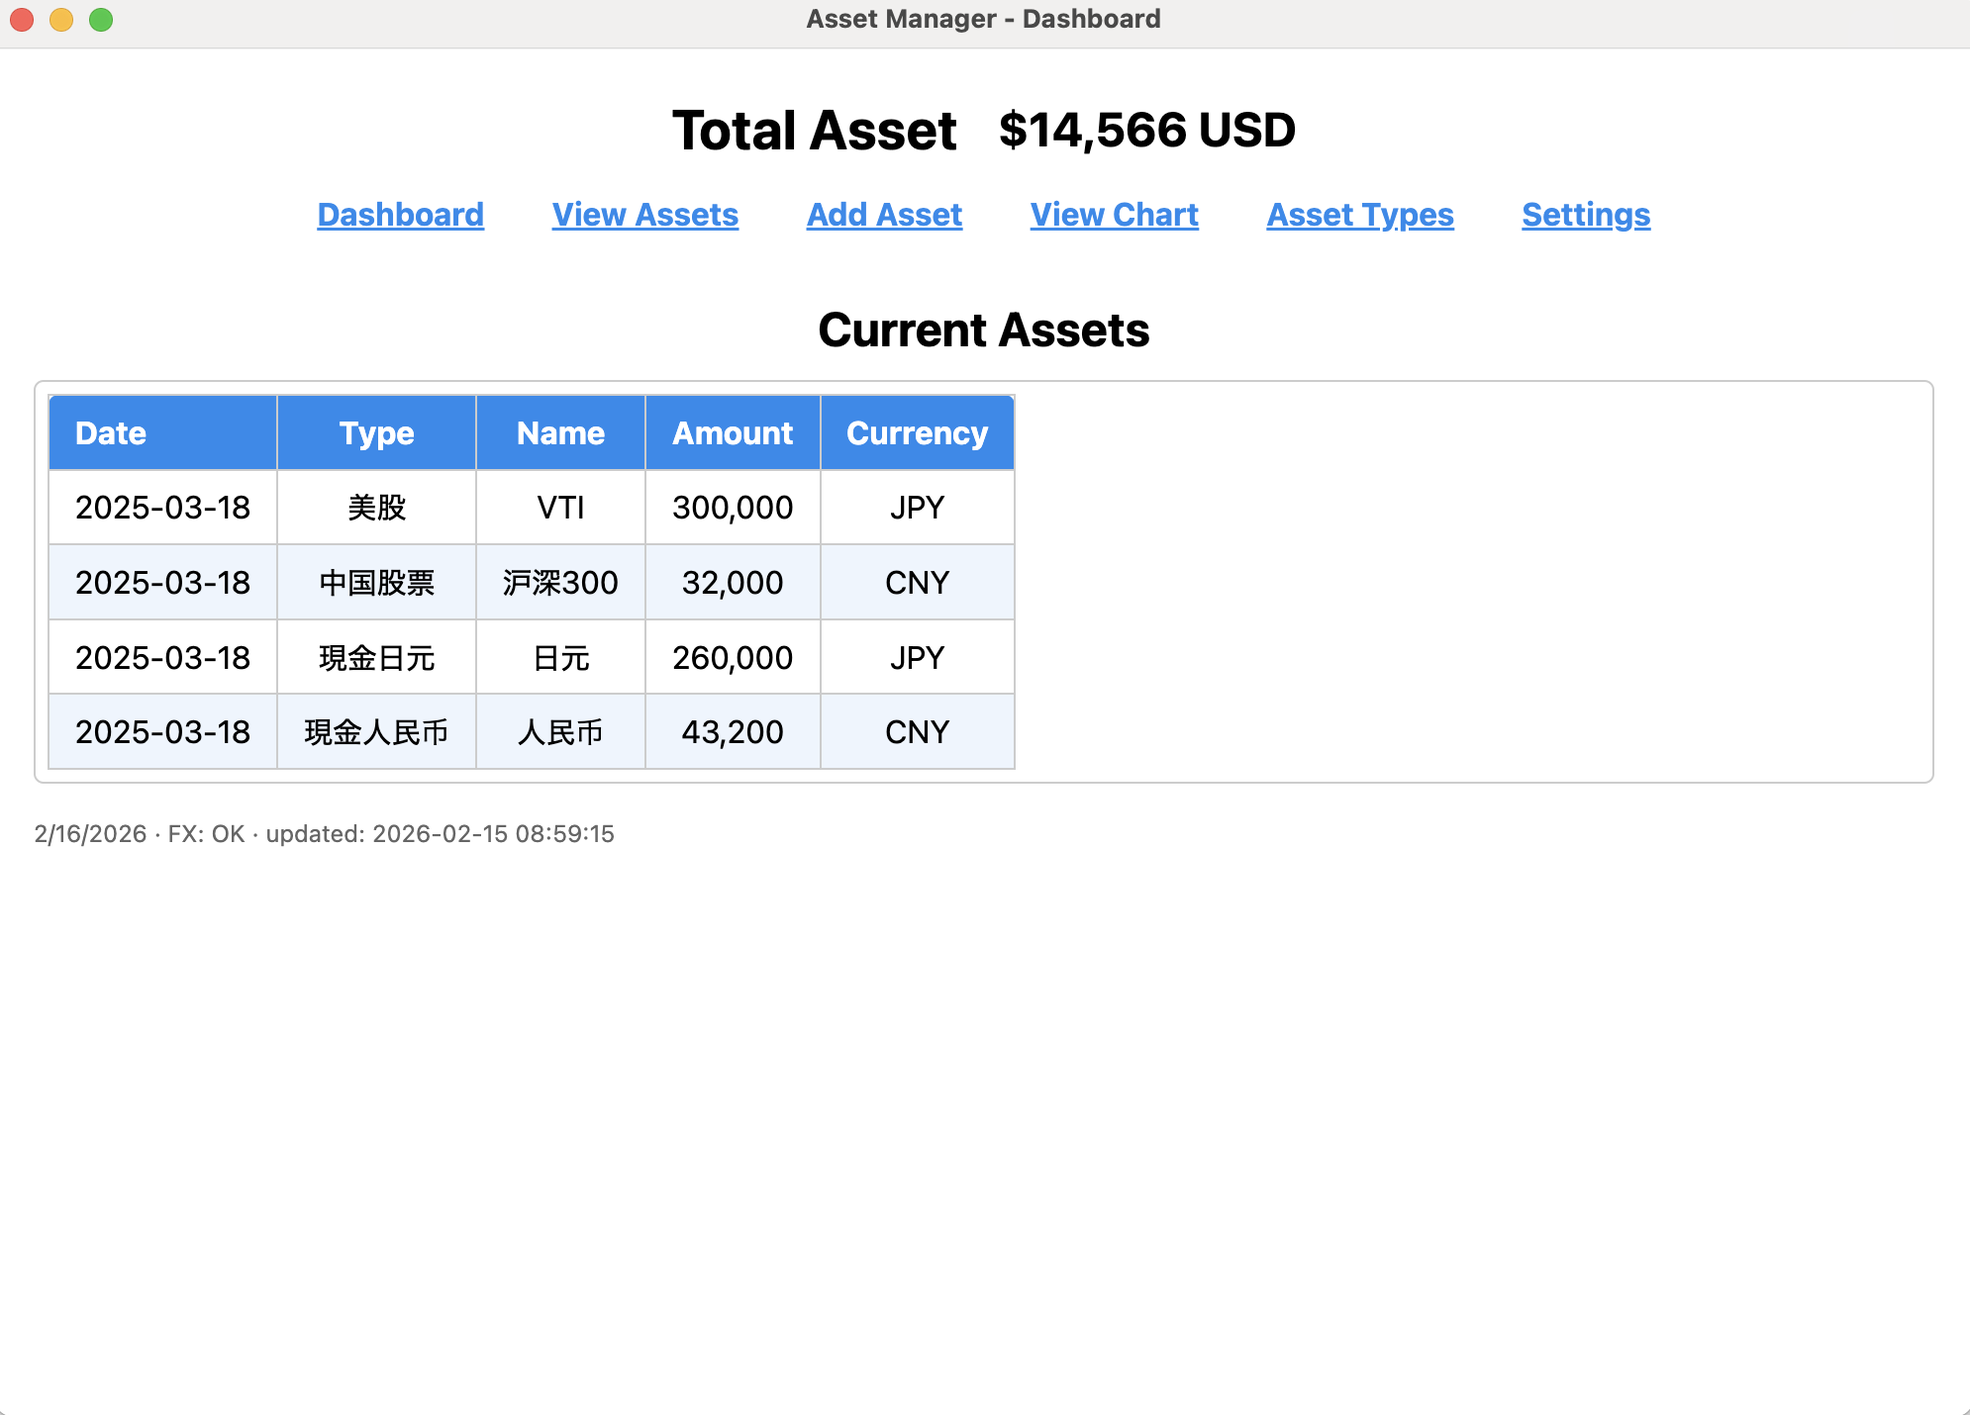
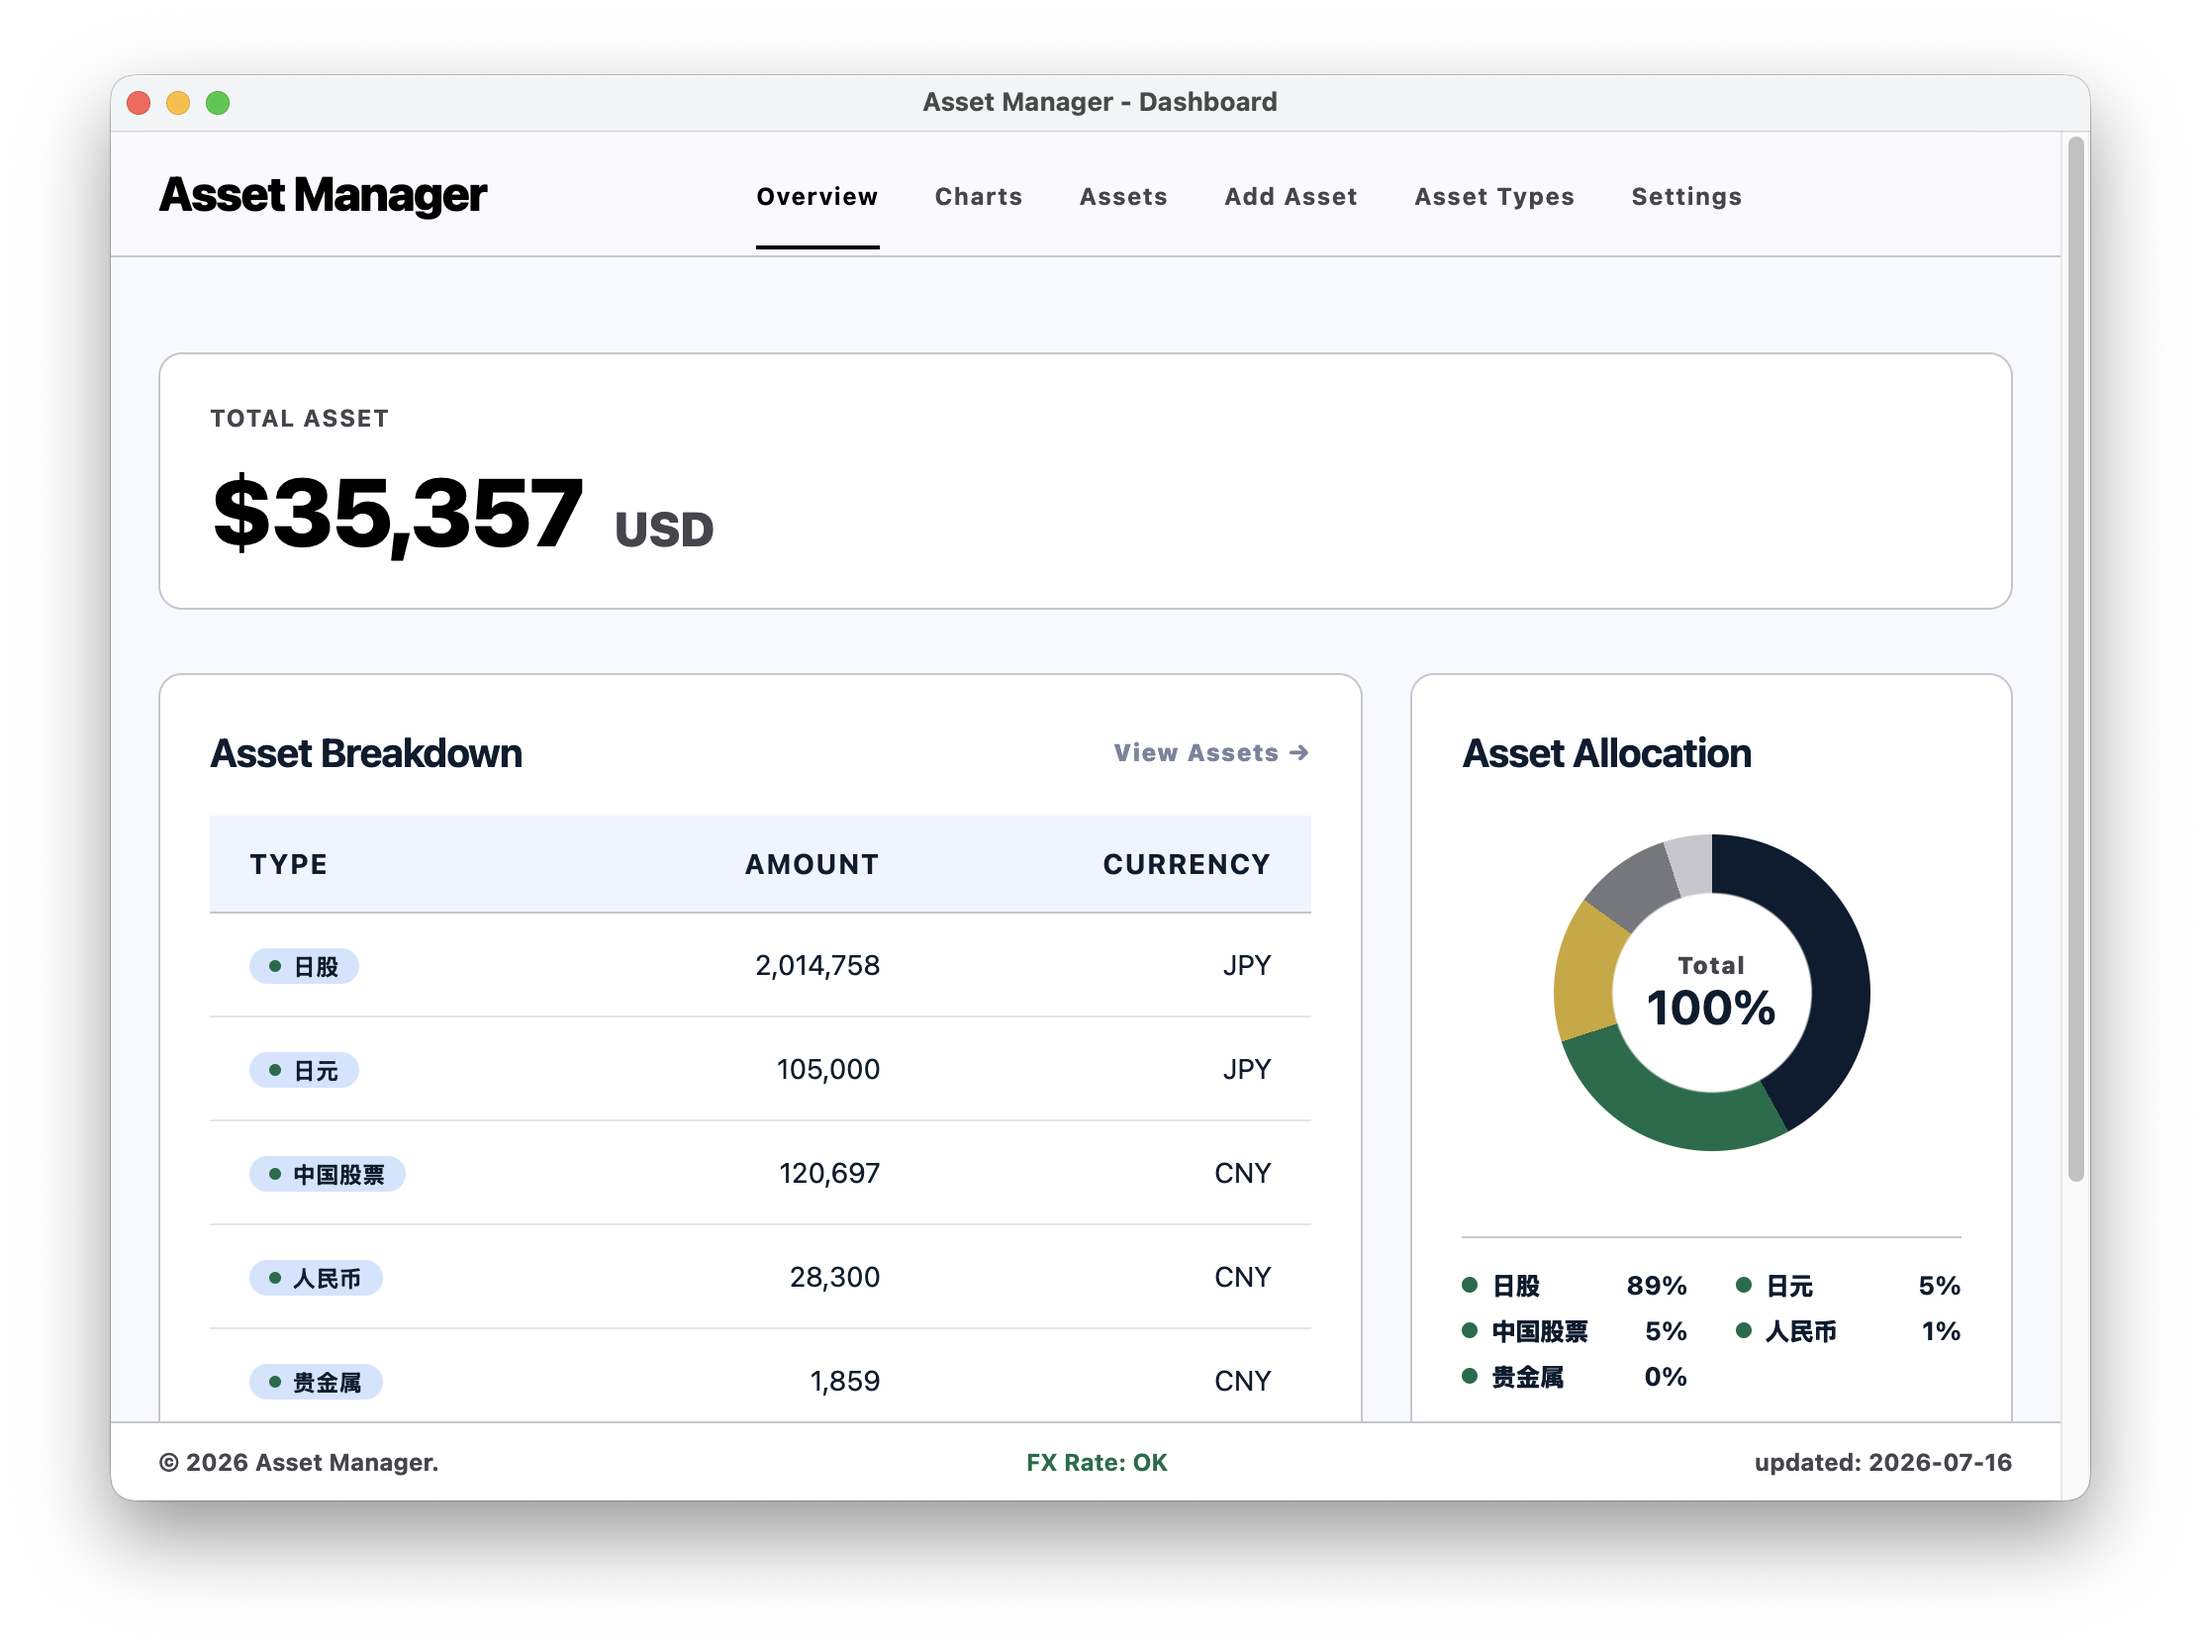
fix readme

diff --git a/README.ja.md b/README.ja.md
@@ -3,24 +3,54 @@
 ![sample1](docs/img/sample1.png)
 ![sample2](docs/img/sample2.png)
 
-# Assets App
+# Asset Manager
 
-Electron + SQLite（`sql.js`）+ React で構築した、ローカル実行型の個人資産管理デスクトップアプリです。
+Electron + SQLite（`sql.js`）+ React で構築した、ローカル実行型の個人資産管理デスクトップアプリです。定期的な資産スナップショット管理を想定しており、日付ごとの資産構成を記録し、表示通貨へ換算した合計資産を Dashboard と Chart で確認できます。
 
 ## 主な機能
 
-- 資産レコード管理（追加・編集・削除・複製）
-- 資産タイプ管理（追加・編集・削除、参照保護あり）
-- ダッシュボードで最新日付の資産と合計金額を表示
-- 日付単位で集計した資産の棒グラフ表示（Canvas）
-- CNY -> JPY の為替換算表示（設定可能）
+- Dashboard で最新日付の資産スナップショットと総資産を表示。
+- 表示通貨で総資産を計算。`JPY`、`CNY`、`USD` に対応。
+- 手動為替レートを管理し、Dashboard / Chart の換算に使用。
+- 資産レコード管理：追加、編集、削除、複製。
+- 資産タイプ管理：追加、編集、削除、`Region` フィールド対応。
+- `Add New Rebalance`：最新の資産スナップショットから資産タイプと通貨をコピーし、新しい日付の最新金額を入力。
+- 日付単位で集計した資産の棒グラフ表示（Canvas）。
+- Settings で言語、表示通貨、FX キャッシュ日数、手動為替レート、ローカルインポート / エクスポートを管理。
+- ローカル `.db` インポート時にデータベースを検証。旧バージョンのエクスポート DB は migration により最新 schema へ互換化。
+- 多言語 UI：中国語、English、日本語。
+
+## データと互換性
+
+- データはローカル SQLite データベースに保存されます。
+- 開発環境のデフォルト DB パス：`data/assets.db`。
+- パッケージ版 macOS アプリでは Electron の `userData` ディレクトリ内の `assets.db` を使用します。
+- migration は `main/migrations/` にあります。
+- 旧 `assets.name` カラムは互換性のため残していますが、UI では Asset Name を表示・編集しません。
+- `asset_types.region` は新しいフィールドで、旧 DB インポート時に migration で追加されます。
 
 ## 技術スタック
 
 - Electron 26
 - SQLite（`sql.js` 経由）
 - React 18（ローカル静的ランタイム）
-- Vanilla CSS（MVP.css）
+- Canvas chart
+- Vanilla CSS（`renderer/styles/` に分割）
+
+## プロジェクト構成
+
+```text
+main/                    Electron メインプロセス、DB、サービスロジック
+main/migrations/          SQLite migration SQL
+preload.js                Renderer に公開する安全な API
+renderer/*.html           各ページの HTML シェル
+renderer/app-react.js     軽量 React 起動エントリ
+renderer/src/             Renderer React モジュール
+renderer/src/pages/       Dashboard / Assets / Settings などのページコンポーネント
+renderer/src/components/  App shell、ナビゲーション、フッターなどの共有コンポーネント
+renderer/styles/          tokens / reset / base / layout / components / pages スタイル
+openspec/changes/         機能・リファクタリング仕様
+```
 
 ## ローカル実行
 
@@ -34,6 +64,18 @@ npm install
 
 ```bash
 npm start
+```
+
+## パッケージ作成
+
+```bash
+npm run pack
+```
+
+配布用インストーラーを生成：
+
+```bash
+npm run dist
 ```
 
 ## macOS DMG インストール時の注意

diff --git a/README.en.md b/README.en.md
@@ -1,26 +1,56 @@
-# Assets App
+# Asset Manager
 
 [中文](README.md) | [English](README.en.md) | [日本語](README.ja.md)
 
 ![sample1](docs/img/sample1.png)
 ![sample2](docs/img/sample2.png)
 
-A local desktop personal asset management app built with Electron + SQLite (`sql.js`) + React.
+A local desktop personal asset management app built with Electron + SQLite (`sql.js`) + React. The app is designed around periodic asset snapshots: record portfolio values on different dates, convert totals into a display currency, and track changes through the Dashboard and Chart pages.
 
 ## Features
 
-- Asset record management (create, edit, delete, duplicate)
-- Asset type management (create, edit, delete, with usage protection)
-- Dashboard with latest-date assets and total amount
-- Date-aggregated asset bar chart (Canvas)
-- CNY -> JPY conversion for display (configurable)
+- Dashboard showing the latest-date asset snapshot and total asset value.
+- Total asset calculation in the configured display currency, supporting `JPY`, `CNY`, and `USD`.
+- Manual FX rate management used by Dashboard and Chart calculations.
+- Asset record management: create, edit, delete, and duplicate.
+- Asset type management: create, edit, delete, with a `Region` field.
+- `Add New Rebalance`: copy the latest asset snapshot, keep asset types and currencies, and enter updated amounts for a new date.
+- Date-aggregated asset bar chart rendered with Canvas.
+- Settings for language, display currency, FX cache days, manual FX rates, local import, and local export.
+- Local `.db` import validates database structure; older exported databases are migrated to the latest schema.
+- Multilingual UI: Chinese, English, and Japanese.
+
+## Data and Compatibility
+
+- Data is stored in a local SQLite database.
+- Development database path: `data/assets.db`.
+- Packaged macOS apps use Electron's `userData` directory for `assets.db`.
+- Database migrations live in `main/migrations/`.
+- The legacy `assets.name` column is retained for compatibility, but Asset Name is no longer shown or edited in the UI.
+- `asset_types.region` is a newer field and is added through migration when older databases are imported.
 
 ## Tech Stack
 
 - Electron 26
-- SQLite (via `sql.js`)
-- React 18 (local static runtime files)
-- Vanilla CSS (MVP.css)
+- SQLite via `sql.js`
+- React 18 with local static runtime files
+- Canvas chart
+- Vanilla CSS organized under `renderer/styles/`
+
+## Project Structure
+
+```text
+main/                    Electron main process, database, and service logic
+main/migrations/          SQLite migration SQL
+preload.js                Safe APIs exposed to the renderer
+renderer/*.html           HTML shells for each page
+renderer/app-react.js     Thin React bootstrap entry point
+renderer/src/             Renderer React modules
+renderer/src/pages/       Page components such as Dashboard / Assets / Settings
+renderer/src/components/  Shared app shell, navigation, and footer components
+renderer/styles/          tokens / reset / base / layout / components / pages styles
+openspec/changes/         Feature and refactor specifications
+```
 
 ## Run Locally
 
@@ -34,6 +64,18 @@ npm install
 
 ```bash
 npm start
+```
+
+## Packaging
+
+```bash
+npm run pack
+```
+
+Build distributable installers:
+
+```bash
+npm run dist
 ```
 
 ## macOS DMG Note

diff --git a/README.md b/README.md
@@ -3,24 +3,54 @@
 ![sample1](docs/img/sample1.png)
 ![sample2](docs/img/sample2.png)
 
-# Assets App
+# Asset Manager
 
-一个本地运行的个人资产管理桌面应用，基于 Electron + SQLite（`sql.js`）+ React 构建。
+一个本地运行的个人资产管理桌面应用，基于 Electron + SQLite（`sql.js`）+ React 构建。应用面向周期性资产快照管理：记录不同日期的资产组合，按显示币种换算总资产，并用 Dashboard 和图表观察资产变化。
 
 ## 功能
 
-- 资产记录管理（新增、编辑、删除、复制）
-- 资产类型管理（新增、编辑、删除，带引用保护）
-- Dashboard 展示最新日期资产与总额
-- 按日期聚合的资产柱状图（Canvas）
-- CNY -> JPY 汇率换算展示（可配置）
+- Dashboard 展示最新日期资产快照和总资产。
+- 总资产按设置中的显示币种计算，支持 `JPY`、`CNY`、`USD`。
+- 手动维护汇率，并在 Dashboard / Chart 中参与换算。
+- 资产记录管理：新增、编辑、删除、复制。
+- 资产类型管理：新增、编辑、删除，并支持 `Region` 字段。
+- `Add New Rebalance`：从最新资产快照复制资产类型和币种，录入新日期的最新金额。
+- 按日期聚合的资产柱状图（Canvas）。
+- Settings 支持语言、显示币种、FX 缓存天数、手动汇率、本地导入/导出。
+- 本地 `.db` 导入会校验数据库；旧版本导出的数据库可通过 migration 兼容新版 schema。
+- 多语言界面：中文、English、日本語。
+
+## 数据与兼容性
+
+- 数据保存在本地 SQLite 数据库中。
+- 开发环境默认数据库位置：`data/assets.db`。
+- 打包后的 macOS 应用使用 Electron `userData` 目录中的 `assets.db`。
+- 新版数据库 migration 位于 `main/migrations/`。
+- 当前版本保留旧 `assets.name` 列以兼容旧数据，但 UI 已不再显示或编辑 Asset Name。
+- `asset_types.region` 是新版字段，旧库导入后会通过 migration 补齐。
 
 ## 技术栈
 
 - Electron 26
 - SQLite（通过 `sql.js`）
 - React 18（本地静态运行时文件）
-- Vanilla CSS（MVP.css）
+- Canvas chart
+- Vanilla CSS，按 `renderer/styles/` 模块化组织
+
+## 项目结构
+
+```text
+main/                    Electron 主进程、数据库与服务逻辑
+main/migrations/          SQLite migration SQL
+preload.js                Renderer 可调用的安全 API
+renderer/*.html           各页面 HTML 壳
+renderer/app-react.js     轻量 React 启动入口
+renderer/src/             Renderer React 模块
+renderer/src/pages/       Dashboard / Assets / Settings 等页面组件
+renderer/src/components/  App shell、导航、页脚等共享组件
+renderer/styles/          tokens / reset / base / layout / components / pages 样式
+openspec/changes/         功能与重构规格说明
+```
 
 ## 本地运行
 
@@ -34,6 +64,18 @@ npm install
 
 ```bash
 npm start
+```
+
+## 打包
+
+```bash
+npm run pack
+```
+
+生成正式安装包：
+
+```bash
+npm run dist
 ```
 
 ## macOS DMG 安装提示
